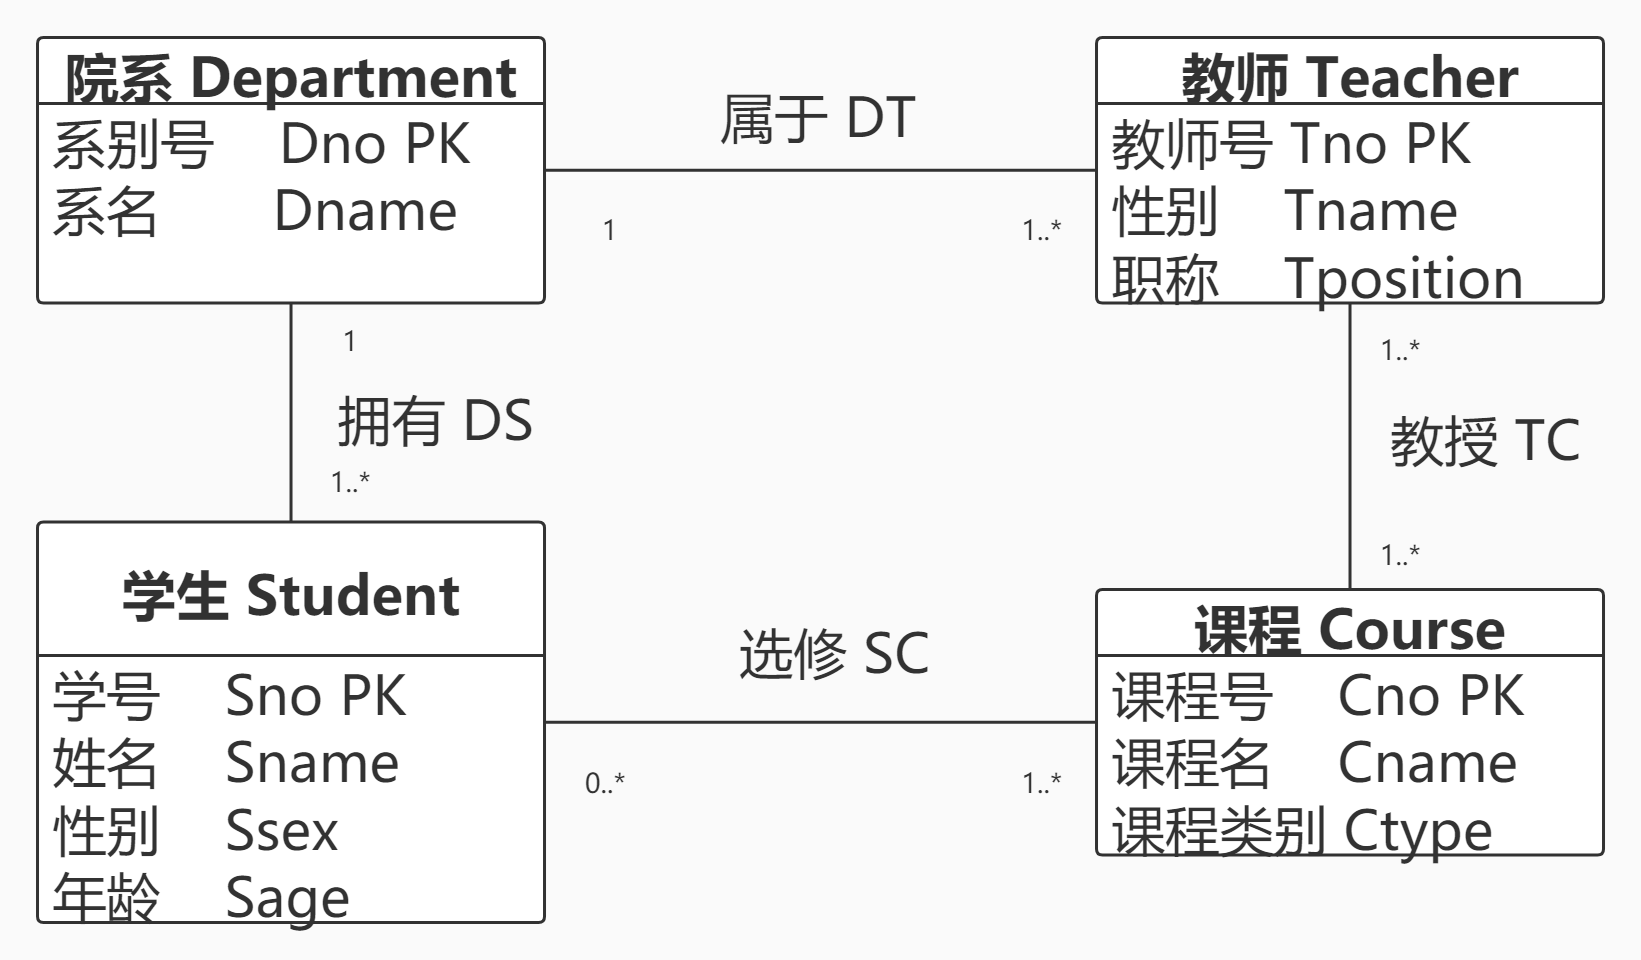
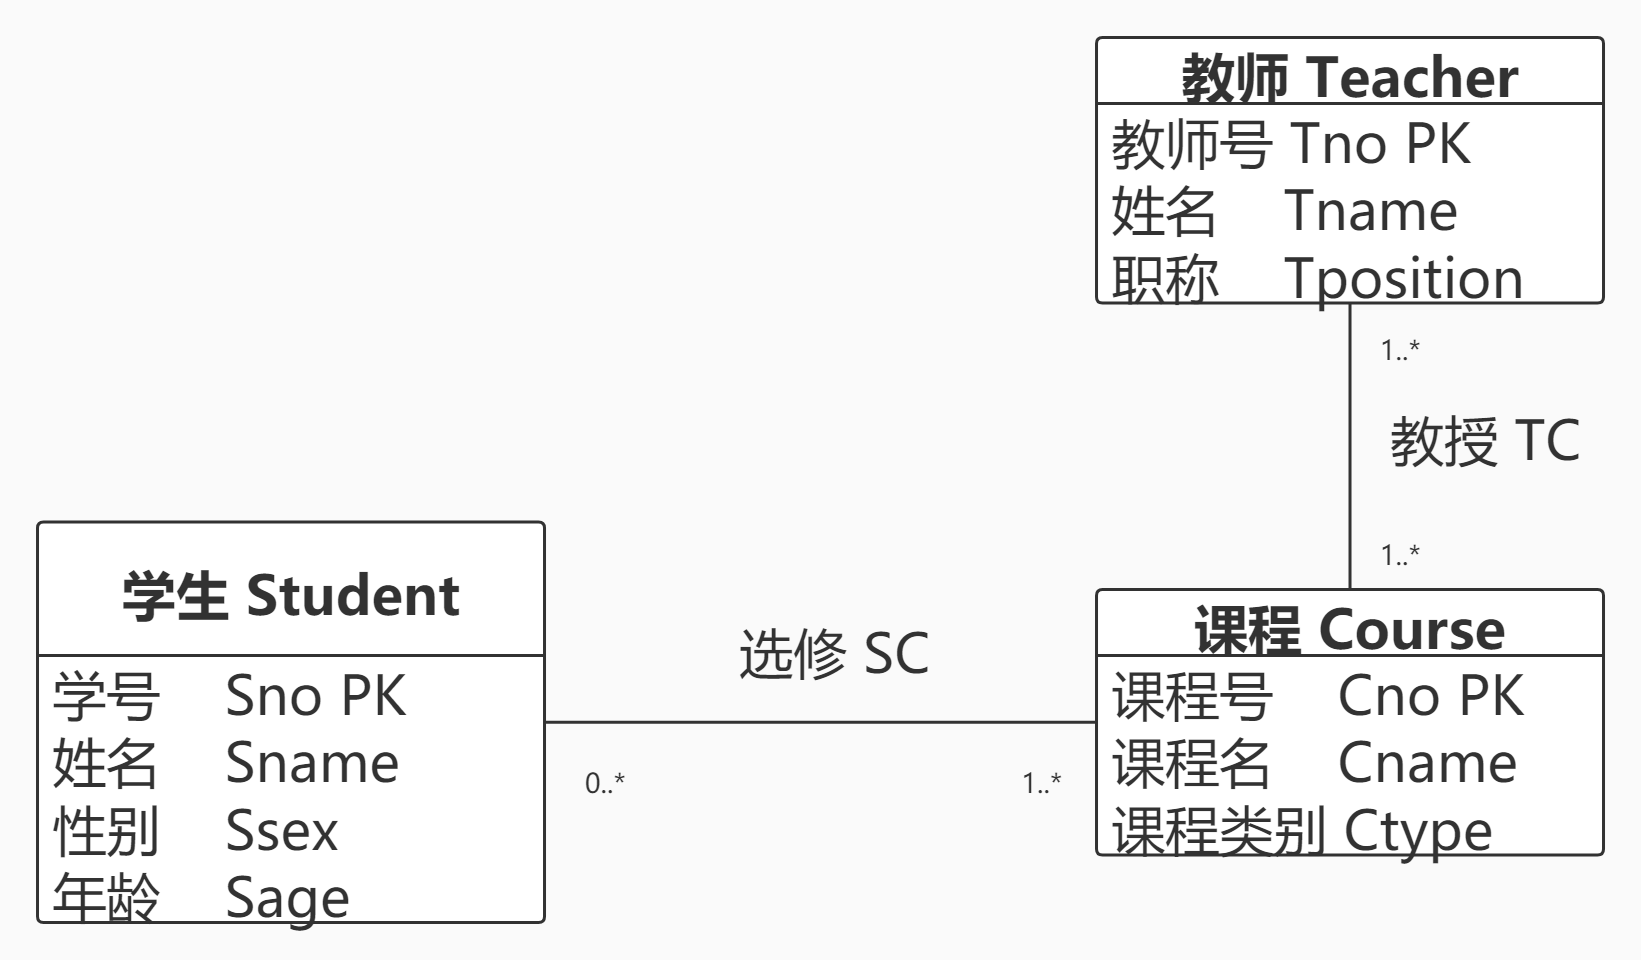
Add basic sql.Update README.

diff --git a/README.md b/README.md
@@ -5,15 +5,15 @@
 1. 分为学生用户、教师用户、管理员超级用户三种用户类型
 2. 通过用户类型选择，输入账号、密码登录系统
 3. 进入个人中心可修改个人信息(如密码等)
-4. 表级权限：
+4. 访问权限：
 
-|  用户类型   | 课程库表   | 成绩表  | 学生信息表 |教学任务表 | 用户表 |
-|  :----:  | :----:  | :----:  | :----:  | :----:  |:----:  |
-| 学生用户  | yes | yes | yes | no |no |
-| 教师用户  | yes | yes | yes | yes |no |
-| 管理员超级用户  | yes | yes | yes | yes | yes |
+|  用户类型   | 课程表   | 学生信息表  | 教师信息表 | 选修关系表 | 教学任务表 |用户表 |
+|  :----:  | :----:  | :----:  | :----:  | :----:  |:----:  |:----:  |
+| 学生用户  | yes | yes | no | yes |no |no |
+| 教师用户  | yes | no | yes | yes |yes |no |
+| 管理员超级用户  | yes | yes | yes | yes | yes | yes |
 
-5. 用户级权限：
+5. 操作权限：
 
 |  用户类型   | 权限内容 |
 |  :----:  | :----:  |
@@ -28,7 +28,6 @@
 - 学生：属性有学号、姓名、性别、年龄
 - 教师：属性有教师号、姓名、职称
 - 课程：属性有课程号、课程名、课程类别
-- 院系：属性有系别号、系名
 
 实体间的联系如下：
 
@@ -36,9 +35,6 @@
 
 (2)一个教师可以教授多门课程，一门课程可被多名教师教授，所以课程和教师之间是多对多(m:n)关系。
 
-(3)一个院系可以拥有多名教师，一个教师只属于一个院系，所以院系和教师之间是一对多(1:n)的关系。
-
-(4)一个院系可以拥有多名学生，一个学生只属于一个院系，所以院系和学生之间是一对多(1:n)的关系。
 
 E-R图表示如下：
 
@@ -59,11 +55,8 @@ UML类图表示如下：
 | 学生(**学号**，性别，姓名，年龄)  | 实体 |
 | 课程(**课程号**，课程名，课程类别)  | 实体 |
 | 教师(**教师号**，性别，职称)  | 实体 |  
-| 院系(**系别号**，系名)  | 实体 |  
 | 选修(**学号**，**课程号**，成绩)  | 联系 |  
-| 教授(**教师号**，**课程号**)  | 联系 |  
-| 属于(**教师号**，**院系**)  | 联系 |  
-| 拥有(**学生号**，**院系**)  | 联系 |  
+| 教授(**教师号**，**课程号**，教学任务)  | 联系 |  
 
 ## 物理结构设计
 
@@ -74,5 +67,18 @@ MySQL数据库提供了InnoDB、MyISAM、ndbcluster、MEMORY、FEDERATED、ARCHI
 本数据库采用MySQL默认存储引擎InnoDB。该引擎支持事物和多版本并发控制(MVCC)的行级锁，且支持外键完整性约束。
 
 ## 数据库实施
+
+### MySQL字段标识说明
+
+|  标识符| sql 关键字   | 含义 |备注 |
+|  :----: |  :----:  | :----:  |:----:  |
+| PK |primary key | Belongs to primary key |主键|
+| NN |not null | Not Null |非空|
+| UQ  | unique| Unique index | 唯一索引| 
+| B  |binary| Is binary column |存放二进制数据的列  | 
+| UN |unsigned | Unsigned data type | 无符号数 （例如-500 to 500替换成0 - 1000,需要整数形数据） |
+| ZF |/ | Fill up values for that column with 0's if it is numeric |  填充0位（例如指定3位小数，整数18就会变成18.000） |
+| AI | auto_increment| Auto Incremental | 自增 |
+| G  |generated| Generated Column | 基于其他列的公式生成值的列 |
 
 ## 数据库运行和维护
